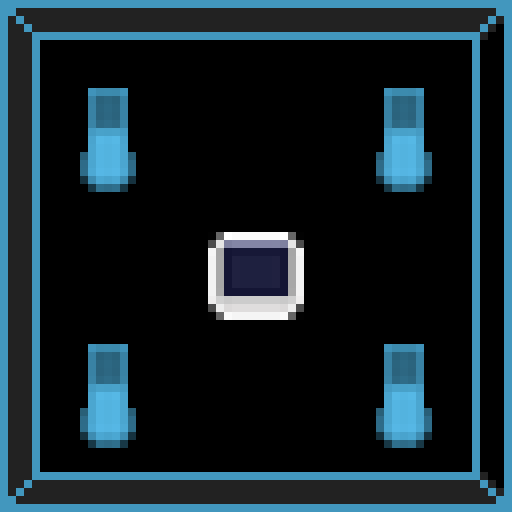
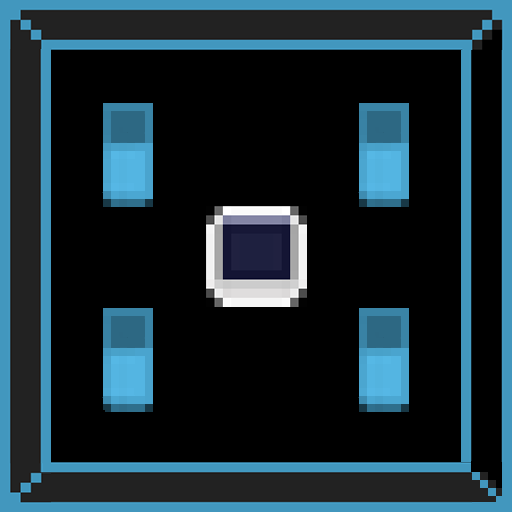
Made the game work with different resolutions also made a (might be temporary) change so that player cant change resolution during game time cause i dont feel like dealing with that

diff --git a/TieOrDye/TieOrDye/Game1.cs b/TieOrDye/TieOrDye/Game1.cs
@@ -97,6 +97,9 @@ namespace TieOrDye
         List<Stone> stonesList; 
         Texture2D stoneTex;
 
+        //list for a grid
+        List<Rectangle> grid;
+
         //List that will contain different direction sprite for players
         List<Texture2D> player1Sprites;
         List<Texture2D> player2Sprites;
@@ -159,6 +162,8 @@ namespace TieOrDye
         bool fromMenu;
         int width;
         int height;
+        int gridX;
+        int gridY;
         #endregion
 
         #region game1
@@ -189,6 +194,18 @@ namespace TieOrDye
             graphics.PreferredBackBufferWidth = GraphicsDevice.DisplayMode.Width;
             graphics.PreferredBackBufferHeight = GraphicsDevice.DisplayMode.Height;
             Debug.WriteLine(graphics.PreferredBackBufferFormat.ToString());
+
+            grid = new List<Rectangle>();
+            gridX = graphics.PreferredBackBufferWidth / 10;
+            gridY = graphics.PreferredBackBufferHeight / 10;
+            for (int j = 0; j < graphics.PreferredBackBufferHeight; j += gridY)
+            {
+                for (int i = 0; i < graphics.PreferredBackBufferWidth; i += gridX)
+                {
+                    grid.Add(new Rectangle(i, j, gridX, gridY));
+                }
+
+            }
 
             //Window.IsBorderless = true;
             graphics.ApplyChanges();
@@ -279,17 +296,15 @@ namespace TieOrDye
             //Walls 
             walls = new List<Wall>();
 
-            walls.Add(new Wall(wallTex, 329, 185, 151, 200));
-            walls.Add(new Wall(wallTex, 1446, 193, 151, 200));
-            walls.Add(new Wall(wallTex, 337, 734, 151, 200));
-            walls.Add(new Wall(wallTex, 1446, 730, 151, 200));
-            walls.Add(new Wall(wallTex, 782, 508, 360, 153));
-            walls.Add(new Wall(wallTex, 813, 492, 300, 17));
-            walls.Add(new Wall(wallTex, 812, 660, 300, 17));
-            walls.Add(new Wall(wallTex, 0, 0, 1920, 84));
-            walls.Add(new Wall(wallTex, 0, 0, 150, 1080));
-            walls.Add(new Wall(wallTex, 1776, 5, 150, 1080));
-            walls.Add(new Wall(wallTex, 10, 1002, 1920, 85));
+            walls.Add(new Wall(wallTex, grid[22].X, grid[22].Y, gridX, gridY * 2));
+            walls.Add(new Wall(wallTex, grid[27].X, grid[27].Y, gridX, gridY * 2));
+            walls.Add(new Wall(wallTex, grid[62].X, grid[62].Y, gridX, gridY * 2));
+            walls.Add(new Wall(wallTex, grid[67].X, grid[67].Y, gridX, gridY * 2));
+            walls.Add(new Wall(wallTex, grid[44].X, grid[44].Y, gridX * 2, gridY * 2));
+            walls.Add(new Wall(wallTex, grid[0].X, grid[0].Y, gridX * 10, gridY)); 
+            walls.Add(new Wall(wallTex, grid[0].X, grid[0].Y, gridX, gridY * 10));
+            walls.Add(new Wall(wallTex, grid[9].X, grid[9].Y, gridX, gridY * 10));
+            walls.Add(new Wall(wallTex, grid[90].X, grid[90].Y, gridX * 10, gridY));
 
             //Stunwatches
             p1StunWatch = new Stopwatch();
@@ -781,21 +796,26 @@ namespace TieOrDye
                 #region options
                 case GameStates.Options:
                     int z = (GraphicsDevice.Viewport.Width / 8);
-                    if (cursorRect.Intersects(new Rectangle((z + z + 10 + GraphicsDevice.Viewport.Width / 6) - 80, 175, 80, 100)))
+
+                    int width4 = (int)(gridX * 1.5);
+                    int height2 = (int)(gridY * .9);
+                    int width3 = (int)(gridX * .9);
+
+                    if (cursorRect.Intersects(new Rectangle(grid[23].X + width4 - 80, grid[23].Y, 80, height2)))
                         if (buttonPress()) //resolution right
                         {
                             if (location == 9)
                                 return;
                             location += 1;
                         }
-                    if(cursorRect.Intersects(new Rectangle((z + z + 10), 175, 80, 100)))
+                    if(cursorRect.Intersects(new Rectangle(grid[23].X, grid[23].Y, 80, height2)))
                         if(buttonPress()) //resolution left
                         {
                             if (location == 0)
                                 return;
                             location -= 1;
                         }
-                    if(cursorRect.Intersects(new Rectangle((z + z + 10 + GraphicsDevice.Viewport.Width / 6) - 80, 295, 80, 100)))
+                    if(cursorRect.Intersects(new Rectangle(grid[33].X + width4 - 80, grid[33].Y, 80, height2)))
                         if(buttonPress()) //volume right
                         {
                             if(dblVolumeLevel > .9)
@@ -803,7 +823,7 @@ namespace TieOrDye
                             dblVolumeLevel += .1;
                             volumeLevel = (float)dblVolumeLevel;
                         }
-                    if(cursorRect.Intersects(new Rectangle((z + z + 10), 295, 80, 100)))
+                    if(cursorRect.Intersects(new Rectangle(grid[33].X, grid[33].Y, 80, height2)))
                         if(buttonPress()) //volume left
                         {
                             dblVolumeLevel -= .1;
@@ -815,13 +835,15 @@ namespace TieOrDye
                                 return;
                             }
                         }
-                    if (cursorRect.Intersects(new Rectangle(z, 415, z, 100)))
+                    if (cursorRect.Intersects(new Rectangle(grid[41].X, grid[41].Y, width4, height2)))
                         if (buttonPress()) //controls button
                             currentGameState = GameStates.ControlOptions;
-                    if (cursorRect.Intersects(new Rectangle(z, 535, z, 100)))
+                    if (cursorRect.Intersects(new Rectangle(grid[51].X, grid[51].Y, width3, height2)))
                         if (buttonPress()) //the apply button
                         {
                             if (resolution[location] == graphics.PreferredBackBufferWidth.ToString() + "x" + graphics.PreferredBackBufferHeight.ToString())
+                                return;
+                            if (time < 60)
                                 return;
                             string res = resolution[location]; //sets the string to the string of new resolution
                             var tempArr = res.Split('x'); //splits it by the char x
@@ -836,9 +858,10 @@ namespace TieOrDye
                             graphics.PreferredBackBufferWidth = width; //sets width and height accordingly
                             graphics.PreferredBackBufferHeight = height;
                             graphics.ApplyChanges(); //applys the change
+                            ResetGrid();
                             ResetMouseOffsets();
                         }
-                    if (cursorRect.Intersects(new Rectangle(z + z + 10, 535, z, 100))) //back button
+                    if (cursorRect.Intersects(new Rectangle(grid[52].X, grid[52].Y, width3, height2))) //back button
                         if (buttonPress())
                             if (cameFromMenu)
                                 currentGameState = GameStates.Menu;
@@ -1058,28 +1081,35 @@ namespace TieOrDye
                     int x = (GraphicsDevice.Viewport.Width / 8); //I use this a lot so it makes the code shorter
                     spriteBatch.Draw(optionsScreen, new Rectangle(0, 0, GraphicsDevice.Viewport.Width, GraphicsDevice.Viewport.Height), Color.White); //draws the background screen
 
-                    rectangle = new Rectangle(x, 50, x, 100); //options box
+                    int width2 = (int)(gridX * 1.5);
+                    int height2 = (int)(gridY * .9);
+                    int width3 = (int)(gridX * .9);
+
+                    rectangle = new Rectangle(grid[11].X, grid[11].Y, width2, height2); //options box
                     makeBox(rectangle, "Options", noTexture, Color.White, false, false);
 
-                    rectangle = new Rectangle(x, 175, x, 100); //resolution box
-                    makeBox(rectangle, "Resolution", noTexture, Color.White, false, false);
+                    rectangle = new Rectangle(grid[21].X, grid[21].Y, width2, height2); //resolution box
+                    if(time < 60)
+                        makeBox(rectangle, "Not While In Game", noTexture, Color.White, false, false);
+                    else
+                        makeBox(rectangle, "Resolution", noTexture, Color.White, false, false);
 
-                    rectangle = new Rectangle(x + x + 10, 175, GraphicsDevice.Viewport.Width / 6, 100); //current resolution box
+                    rectangle = new Rectangle(grid[23].X, grid[23].Y, width2, height2); //current resolution box
                     makeBox(rectangle, resolution[location], noTexture, Color.White, true, false);
 
-                    rectangle = new Rectangle(x, 295, x, 100); //Volume Box
+                    rectangle = new Rectangle(grid[31].X, grid[31].Y, width2, height2); //Volume Box
                     makeBox(rectangle, "Volume", noTexture, Color.White, false, false);
 
-                    rectangle = new Rectangle(x + x + 10, 295, GraphicsDevice.Viewport.Width / 6, 100); //change Volume Box
+                    rectangle = new Rectangle(grid[33].X, grid[33].Y, width2, height2); //change Volume Box
                     makeBox(rectangle, volumeLevel.ToString(), noTexture, Color.White, true, false);
 
-                    rectangle = new Rectangle(x, 415, x, 100); //Controls Box
+                    rectangle = new Rectangle(grid[41].X, grid[41].Y, width2, height2); //Controls Box
                     makeBox(rectangle, "Controls", noTexture, Color.White, false, false);
 
-                    rectangle = new Rectangle(x, 535, x, 100); //Apply Box
+                    rectangle = new Rectangle(grid[51].X, grid[51].Y, width3 , height2); //Apply Box
                     makeBox(rectangle, "Apply", noTexture, Color.White, false, false);
 
-                    rectangle = new Rectangle(x + x + 10, 535, x, 100); //Back Box
+                    rectangle = new Rectangle(grid[52].X, grid[52].Y, width3, height2); //Back Box
                     makeBox(rectangle, "Back", noTexture, Color.White, false, false);
 
                     spriteBatch.Draw(cursorTex, cursorRect, Color.White);
@@ -1295,7 +1325,7 @@ namespace TieOrDye
                 if (sl[i].Inverter)
                     spriteBatch.Draw(inverterImage, new Rectangle(sl[i].XPos, sl[i].YPos, WIDTH_OF_STONES, WIDTH_OF_STONES), Color.White); //draw it
                 else if (sl[i].RapidFire)
-                    spriteBatch.Draw(speedupImage, new Rectangle(sl[i].XPos, sl[i].YPos, WIDTH_OF_STONES, WIDTH_OF_STONES), Color.Yellow); //draw it
+                    spriteBatch.Draw(speedupImage, new Rectangle(sl[i].XPos, sl[i].YPos, WIDTH_OF_STONES, WIDTH_OF_STONES), Color.White); //draw it
                 else
                     spriteBatch.Draw(stonesList[i].StoneTex, new Rectangle(sl[i].XPos, sl[i].YPos, WIDTH_OF_STONES, WIDTH_OF_STONES), Color.White); //draw it
                 if (firstItemCount == 0)
@@ -1352,11 +1382,11 @@ namespace TieOrDye
             if (makearrow) //makes arrows
             {
                 if (cursorRect.Intersects(new Rectangle(rect.X + rect.Width - 80, rect.Y, 80, rect.Height))) //changes color if the mouse is in the box
-                    spriteBatch.Draw(arrowRight, null, new Rectangle(rect.Width + rect.X - 80, rect.Y, 80, rect.Height), null, null, 0, null, Color.White, SpriteEffects.None, 0);
+                    spriteBatch.Draw(arrowRight, null, new Rectangle(rect.Width + rect.X - 80, rect.Y, 80, rect.Height), null, null, 0, null, Color.Blue, SpriteEffects.None, 0);
                 else
                     spriteBatch.Draw(arrowRight, null, new Rectangle(rect.X + rect.Width - 80, rect.Y, 80, rect.Height), null, null, 0, null, color, SpriteEffects.None, 0);
                 if (cursorRect.Intersects(new Rectangle(rect.X, rect.Y, 80, rect.Height)))
-                    spriteBatch.Draw(arrowRight, null, new Rectangle(rect.X, rect.Y, 80, rect.Height), null, null, 0, null, Color.White, SpriteEffects.FlipHorizontally, 0);
+                    spriteBatch.Draw(arrowRight, null, new Rectangle(rect.X, rect.Y, 80, rect.Height), null, null, 0, null, Color.Blue, SpriteEffects.FlipHorizontally, 0);
                 else
                     spriteBatch.Draw(arrowRight, null, new Rectangle(rect.X, rect.Y, 80, rect.Height), null, null, 0, null, color, SpriteEffects.FlipHorizontally, 0);
             }
@@ -1632,6 +1662,34 @@ namespace TieOrDye
         }
         #endregion
 
+        #endregion
+
+        #region ResetGrid
+        public void ResetGrid()
+        {
+            grid.Clear();
+            gridX = graphics.PreferredBackBufferWidth / 10;
+            gridY = graphics.PreferredBackBufferHeight / 10;
+            for (int j = 0; j < graphics.PreferredBackBufferHeight; j += gridY)
+            {
+                for (int i = 0; i < graphics.PreferredBackBufferWidth; i += gridX)
+                {
+                    grid.Add(new Rectangle(i, j, gridX, gridY));
+                }
+
+            }
+            walls.Clear();
+
+            walls.Add(new Wall(wallTex, grid[22].X, grid[22].Y, gridX, gridY * 2));
+            walls.Add(new Wall(wallTex, grid[27].X, grid[27].Y, gridX, gridY * 2));
+            walls.Add(new Wall(wallTex, grid[62].X, grid[62].Y, gridX, gridY * 2));
+            walls.Add(new Wall(wallTex, grid[67].X, grid[67].Y, gridX, gridY * 2));
+            walls.Add(new Wall(wallTex, grid[44].X, grid[44].Y, gridX * 2, gridY * 2));
+            walls.Add(new Wall(wallTex, grid[0].X, grid[0].Y, gridX * 10, gridY));
+            walls.Add(new Wall(wallTex, grid[0].X, grid[0].Y, gridX, gridY * 10));
+            walls.Add(new Wall(wallTex, grid[9].X, grid[9].Y, gridX, gridY * 10));
+            walls.Add(new Wall(wallTex, grid[90].X, grid[90].Y, gridX * 10, gridY));
+        }
         #endregion
     }
 }
